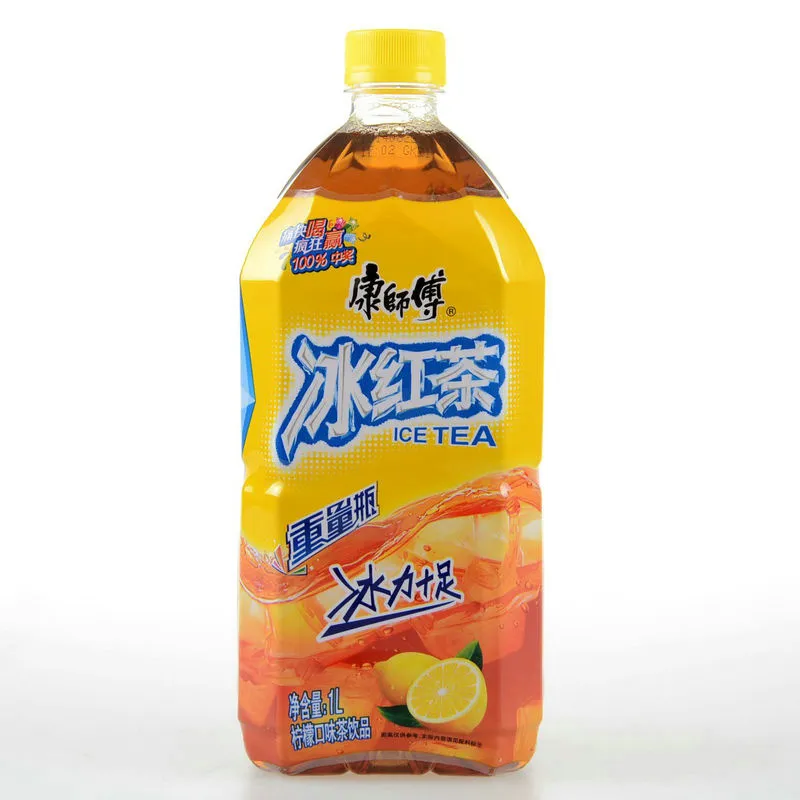
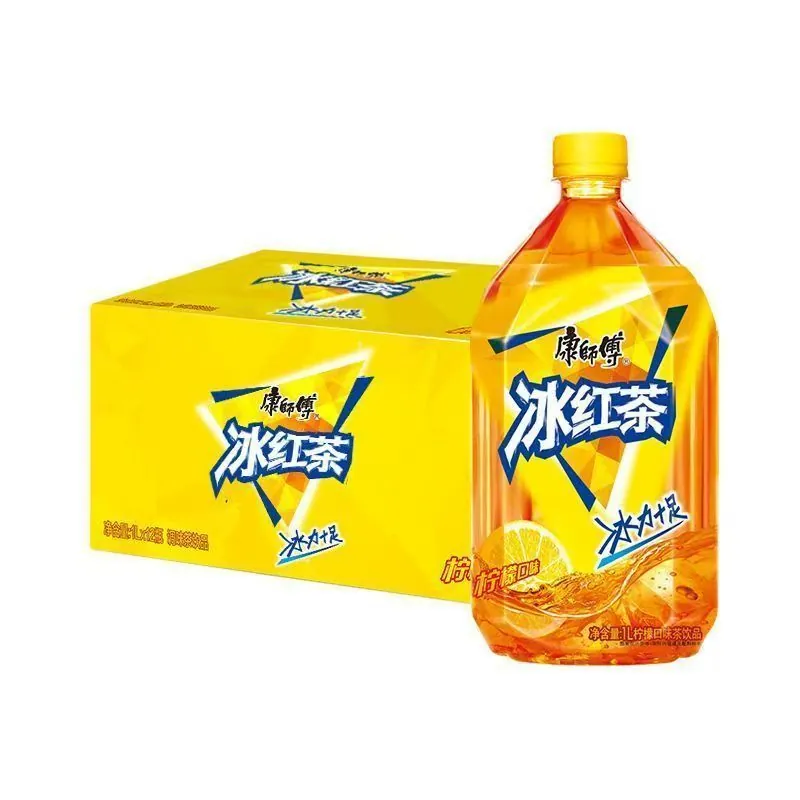
feat(products): 冰红茶宣传图替换 + 新增4件0.5元零食(56-59)
冰红茶(order 6)换用户供货实拍图，800x800+400x400 双尺寸重生成，旧图归档 archive/images-replaced-2026-10-02/；新增口水娃鱿鱼须/片甲不留辣片/人小鬼大糖果/脆皮虾各0.5元，分类 snacks、库存不限售；seed.sql 由 gen-seed.mjs 同步

diff --git a/src/data/products-seed.ts b/src/data/products-seed.ts
@@ -139,4 +139,10 @@ export const products: SeedProduct[] = [
   // 新增商品（2026-09-07）
   { name: '康师傅茉莉清茶', spec: '1L', price: 3.5, subcategories: ['tea', 'sweet'], order: 53 },
   { name: '康师傅茉莉蜜茶', spec: '1L', price: 3.5, subcategories: ['tea', 'sweet'], order: 54 },
+
+  // 新增商品（2026-10-02，用户实拍供货图；四件均为零食类，图上无净含量小字，spec 留空）
+  { name: '口水娃鱿鱼须', spec: '', price: 0.5, subcategories: ['snacks'], order: 56 },
+  { name: '片甲不留辣片', spec: '', price: 0.5, subcategories: ['snacks'], order: 57 },
+  { name: '人小鬼大糖果', spec: '', price: 0.5, subcategories: ['snacks'], order: 58 },
+  { name: '脆皮虾', spec: '', price: 0.5, subcategories: ['snacks'], order: 59 },
 ]

diff --git a/CHANGELOG.md b/CHANGELOG.md
@@ -4,6 +4,30 @@
 
 ## [未发布]
 
+### 2026-10-02 商品图轮换与四件零食上新（第六十三轮）
+
+- **做了什么**：① **康师傅冰红茶（order 6）宣传图替换** —— 用户提供供货实拍图（黄箱+单瓶，冰力十足），
+  重新生成 800×800 整图 + 400×400 缩略图覆盖 `public/images/6.webp` 与 `public/images/sm/6.webp`；
+  旧图移出 `public/` 归档到 `archive/images-replaced-2026-10-02/`（含 sm 副本，可回滚）。
+  **零代码改动**：商品 `image` 字段为空 → 四个调用点均走 `productImageUrl(order)` 派生 URL。
+  ② **新增 4 件零食**（用户实拍供货图，各 ¥0.5）：口水娃鱿鱼须（order 56）、片甲不留辣片（57）、
+  人小鬼大糖果（58）、脆皮虾（59）；分类 `["snacks"]`、库存 `-1`（不限售）、已上架、成本价 0；
+  `src/data/products-seed.ts` 为真相源，`db/seed.sql` 由 `node db/gen-seed.mjs` 同步生成。
+- **为什么**：冰红茶原图是白底单瓶图、观感弱，用户要求换成整箱宣传图；四件零食是店内实际在售、
+  但商品库里还没有的新品。order 顺延到 56–59，避开已占用的 55（润田矿泉水，只在 D1 不在 seed）。
+- **规格体检（换图前必查）**：线上 `/pub getPublicProducts` 现读确认 `p006` 的 `order=6`、`spec=1L`、
+  在售 `image` 为空 —— 图上印「1L×12 瓶 整箱装」，与商品的 1L 规格一致，**不存在"图文售卖单位冲突"**，
+  故不改规格也不改价（线上现价 3.50）。四件新商品图上净含量小字不可读，`spec` 一律留空，
+  沿用现有 43/44/45 的写法，不猜规格。
+- **图片流水线口径**：本机 WinGet 未装 ffmpeg（skill 文档的动态探测回退路径也未命中），
+  改用 **Python 3.12 + Pillow 11.3**（底层同为 libwebp，编码器一致）走同规格流水线：
+  整图 800×800 `-quality 80`、sm 400×400 `-quality 75`、白底 pad、**源图小于目标只 pad 不 upscale**。
+  5 张源图实测 800×800 ~ 2000×2000，成品 39.0–136.9 KB。
+- **验证**：`npm run verify:images` rc=0（主图 59/59 + 缩略图 59/59，覆盖率 100%）；
+  `npm run typecheck` 零错；`npm run verify:eol` GREEN；`npm run verify:schema` 25/25；
+  商品数据相关 5 个测试文件（catalogFacts / verifyImages / variants / localStore / productDetailVariants）全绿。
+  写线上前已做 D1 全量备份 `_backup/d1-pre-2026-10-02-new-products.sql`（1.48 MB）。
+
 ### 2026-10-02 追加七十九（第六十轮：事件总线第 3 步消费者 + 响应侧 trace 回报，并收口 trace 自身的卫生缺陷）
 
 - **做了什么**：① **M-59-1（挂账两轮的第 3 步）**：新增 `event_log` 表（`db/schema.sql` + `db/migrate-event-log.sql`
